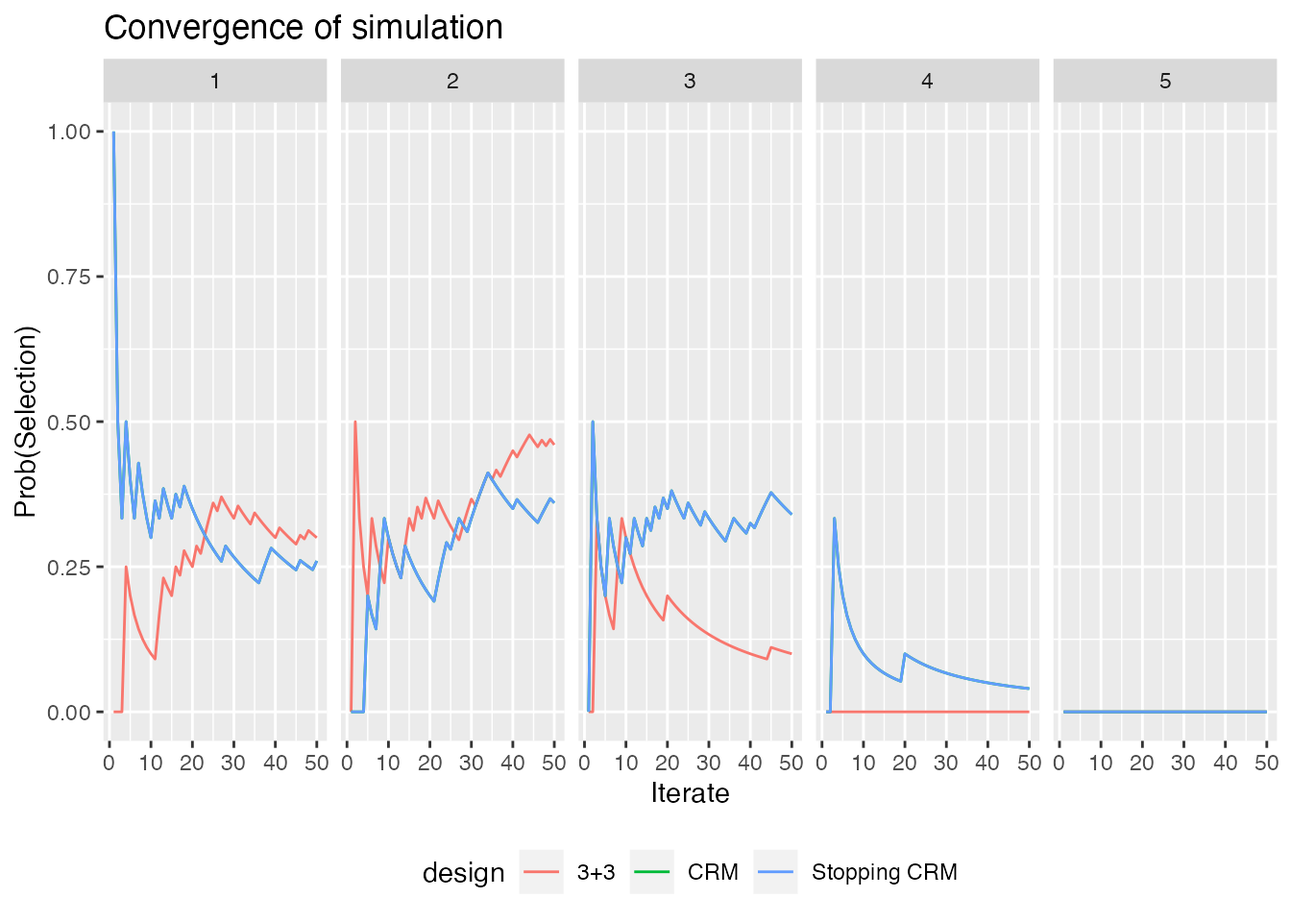
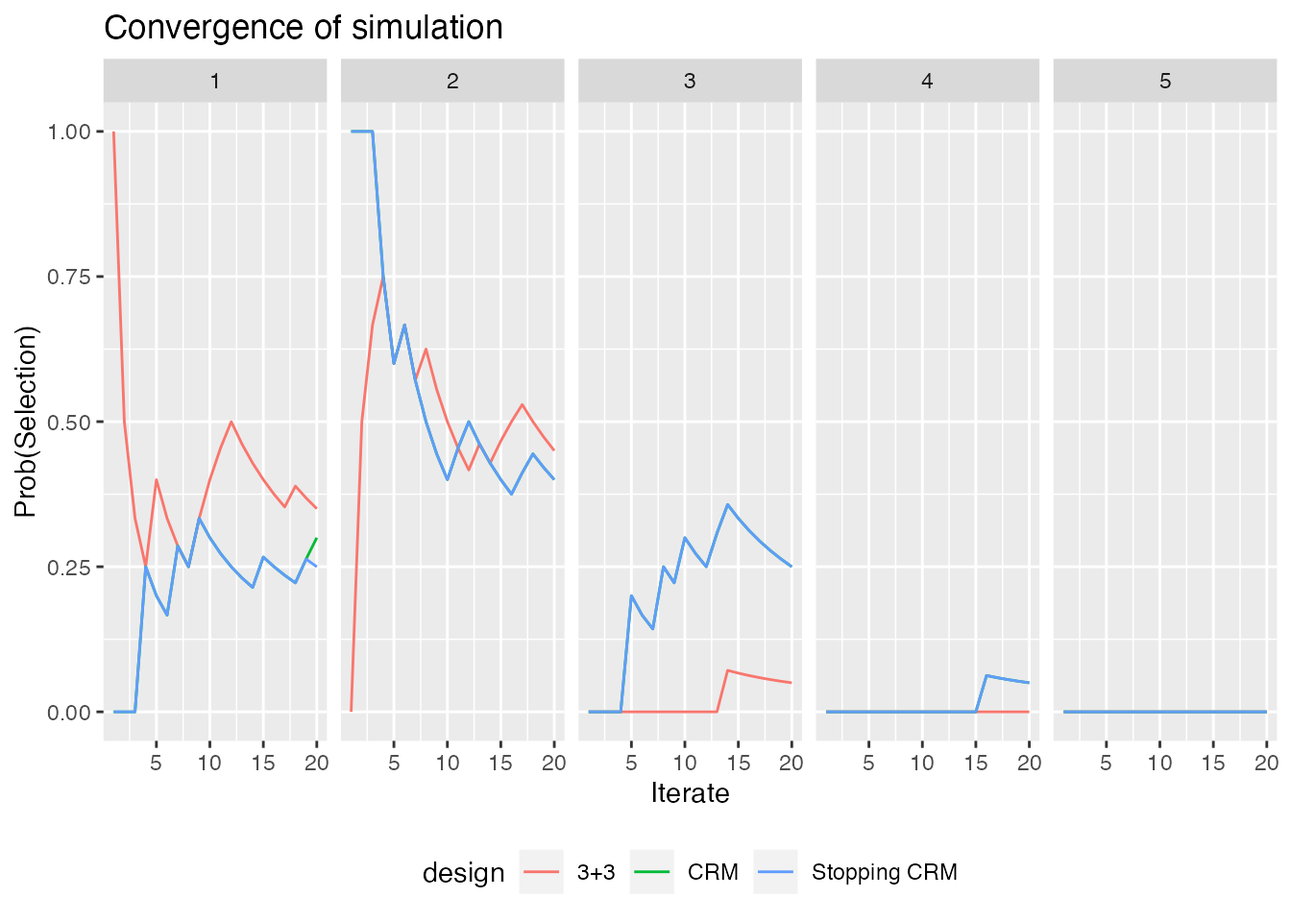
Changes to pass CRAN checks, culminating in v0.1.8

diff --git a/docs/articles/A700-Simulation.html b/docs/articles/A700-Simulation.html
@@ -40,7 +40,7 @@
       </button>
       <span class="navbar-brand">
         <a class="navbar-link" href="../index.html">escalation</a>
-        <span class="version label label-default" data-toggle="tooltip" data-placement="bottom" title="">0.1.6.9001</span>
+        <span class="version label label-default" data-toggle="tooltip" data-placement="bottom" title="">0.1.8</span>
       </span>
     </div>
 
@@ -176,7 +176,7 @@ the design tends to target doses with associated toxicity rates of
 <p>For the purposes of illustration, let us simulate a modest number of
 trials:</p>
 <div class="sourceCode" id="cb3"><pre class="downlit sourceCode r">
-<code class="sourceCode R"><span><span class="va">num_sims</span> <span class="op">&lt;-</span> <span class="fl">50</span></span></code></pre></div>
+<code class="sourceCode R"><span><span class="va">num_sims</span> <span class="op">&lt;-</span> <span class="fl">20</span></span></code></pre></div>
 <p>In reality, if we want to have confidence in the simulated results,
 we would tend to run thousands of iterations <span class="citation">(Wheeler et al. 2019)</span>. We run a small number
 here so that this vignette compiles quickly.</p>
@@ -194,7 +194,7 @@ of R.</p>
 useful summary information:</p>
 <div class="sourceCode" id="cb5"><pre class="downlit sourceCode r">
 <code class="sourceCode R"><span><span class="va">sims</span></span>
-<span><span class="co">#&gt; Number of iterations: 50 </span></span>
+<span><span class="co">#&gt; Number of iterations: 20 </span></span>
 <span><span class="co">#&gt; </span></span>
 <span><span class="co">#&gt; Number of doses: 5 </span></span>
 <span><span class="co">#&gt; </span></span>
@@ -204,30 +204,30 @@ useful summary information:</p>
 <span><span class="co">#&gt; </span></span>
 <span><span class="co">#&gt; Probability of recommendation:</span></span>
 <span><span class="co">#&gt; NoDose      1      2      3      4      5 </span></span>
-<span><span class="co">#&gt;   0.08   0.38   0.34   0.16   0.04   0.00 </span></span>
+<span><span class="co">#&gt;   0.10   0.45   0.30   0.15   0.00   0.00 </span></span>
 <span><span class="co">#&gt; </span></span>
 <span><span class="co">#&gt; Probability of administration:</span></span>
 <span><span class="co">#&gt;      1      2      3      4      5 </span></span>
-<span><span class="co">#&gt; 0.3351 0.3730 0.2054 0.0703 0.0162 </span></span>
+<span><span class="co">#&gt; 0.3731 0.3731 0.1791 0.0746 0.0000 </span></span>
 <span><span class="co">#&gt; </span></span>
 <span><span class="co">#&gt; Sample size:</span></span>
 <span><span class="co">#&gt;    Min. 1st Qu.  Median    Mean 3rd Qu.    Max. </span></span>
-<span><span class="co">#&gt;     6.0     9.0     9.0    11.1    12.0    21.0 </span></span>
+<span><span class="co">#&gt;    6.00    8.25    9.00   10.05   12.00   18.00 </span></span>
 <span><span class="co">#&gt; </span></span>
 <span><span class="co">#&gt; Total toxicities:</span></span>
 <span><span class="co">#&gt;    Min. 1st Qu.  Median    Mean 3rd Qu.    Max. </span></span>
-<span><span class="co">#&gt;    2.00    2.00    2.00    2.72    3.00    5.00 </span></span>
+<span><span class="co">#&gt;    2.00    2.00    2.00    2.40    2.25    5.00 </span></span>
 <span><span class="co">#&gt; </span></span>
 <span><span class="co">#&gt; Trial duration:</span></span>
 <span><span class="co">#&gt;    Min. 1st Qu.  Median    Mean 3rd Qu.    Max. </span></span>
-<span><span class="co">#&gt;    3.70    7.65   10.00   11.52   15.07   21.80</span></span></code></pre></div>
+<span><span class="co">#&gt;   4.200   5.925   9.150  10.335  13.950  21.800</span></span></code></pre></div>
 <p>Each of those pieces of information is available progmatically by R
 functions. For instance, the probability of recommending each dose at
 the final analysis, inferred from these simulated iterations, is:</p>
 <div class="sourceCode" id="cb6"><pre class="downlit sourceCode r">
 <code class="sourceCode R"><span><span class="fu"><a href="../reference/prob_recommend.html">prob_recommend</a></span><span class="op">(</span><span class="va">sims</span><span class="op">)</span></span>
 <span><span class="co">#&gt; NoDose      1      2      3      4      5 </span></span>
-<span><span class="co">#&gt;   0.08   0.38   0.34   0.16   0.04   0.00</span></span></code></pre></div>
+<span><span class="co">#&gt;   0.10   0.45   0.30   0.15   0.00   0.00</span></span></code></pre></div>
 <p>Bear in mind that these probabilities are the result of a random
 process. If we run the simulations again with a different seed, we will
 get different results. Recall also that they are informed by a small
@@ -242,13 +242,13 @@ probably too toxic, or recommend no dose at all.</p>
 <div class="sourceCode" id="cb7"><pre class="downlit sourceCode r">
 <code class="sourceCode R"><span><span class="fu"><a href="https://rdrr.io/r/base/summary.html" class="external-link">summary</a></span><span class="op">(</span><span class="fu"><a href="../reference/num_patients.html">num_patients</a></span><span class="op">(</span><span class="va">sims</span><span class="op">)</span><span class="op">)</span></span>
 <span><span class="co">#&gt;    Min. 1st Qu.  Median    Mean 3rd Qu.    Max. </span></span>
-<span><span class="co">#&gt;     6.0     9.0     9.0    11.1    12.0    21.0</span></span></code></pre></div>
+<span><span class="co">#&gt;    6.00    8.25    9.00   10.05   12.00   18.00</span></span></code></pre></div>
 <p>We see that the simulated trials use between 3 and 24 patients, with
 an expected number of 9-12.</p>
 <div class="sourceCode" id="cb8"><pre class="downlit sourceCode r">
 <code class="sourceCode R"><span><span class="fu"><a href="https://rdrr.io/r/base/summary.html" class="external-link">summary</a></span><span class="op">(</span><span class="fu"><a href="../reference/n_at_recommended_dose.html">n_at_recommended_dose</a></span><span class="op">(</span><span class="va">sims</span><span class="op">)</span><span class="op">)</span></span>
 <span><span class="co">#&gt;    Min. 1st Qu.  Median    Mean 3rd Qu.    Max.    NA's </span></span>
-<span><span class="co">#&gt;   3.000   3.000   3.000   3.913   6.000   6.000       4</span></span></code></pre></div>
+<span><span class="co">#&gt;   3.000   3.000   3.000   3.667   3.000   6.000       2</span></span></code></pre></div>
 <p>Of those, 3-4 at treated at the dose that is eventually
 recommended.</p>
 <p>We can see how many patients are treated at each dose on a
@@ -275,7 +275,7 @@ dose-level:</p>
 <div class="sourceCode" id="cb10"><pre class="downlit sourceCode r">
 <code class="sourceCode R"><span><span class="fu"><a href="../reference/prob_administer.html">prob_administer</a></span><span class="op">(</span><span class="va">sims</span><span class="op">)</span></span>
 <span><span class="co">#&gt;          1          2          3          4          5 </span></span>
-<span><span class="co">#&gt; 0.33513514 0.37297297 0.20540541 0.07027027 0.01621622</span></span></code></pre></div>
+<span><span class="co">#&gt; 0.37313433 0.37313433 0.17910448 0.07462687 0.00000000</span></span></code></pre></div>
 <p>We might be alarmed to learn that roughly 25% of patients are treated
 at doses 3-5, the doses we believe to be excessively toxic.</p>
 <p>We can also see how many toxicities there were at each dose in the
@@ -300,7 +300,7 @@ replicates:</p>
 <div class="sourceCode" id="cb12"><pre class="downlit sourceCode r">
 <code class="sourceCode R"><span><span class="fu"><a href="https://rdrr.io/r/base/summary.html" class="external-link">summary</a></span><span class="op">(</span><span class="fu"><a href="../reference/num_tox.html">num_tox</a></span><span class="op">(</span><span class="va">sims</span><span class="op">)</span><span class="op">)</span></span>
 <span><span class="co">#&gt;    Min. 1st Qu.  Median    Mean 3rd Qu.    Max. </span></span>
-<span><span class="co">#&gt;    2.00    2.00    2.00    2.72    3.00    5.00</span></span></code></pre></div>
+<span><span class="co">#&gt;    2.00    2.00    2.00    2.40    2.25    5.00</span></span></code></pre></div>
 <p>We expect to see about 2-3 toxicities using this design in this
 scenario with no iteration producing more than 6 toxicities.</p>
 <p>For convenience, simulations can be cast to a
@@ -401,7 +401,7 @@ How does performance of this simple design compare to the 3+3 above?</p>
 <span>  <span class="fu"><a href="../reference/simulate_trials.html">simulate_trials</a></span><span class="op">(</span>num_sims <span class="op">=</span> <span class="va">num_sims</span>, true_prob_tox <span class="op">=</span> <span class="va">true_prob_tox</span><span class="op">)</span></span>
 <span></span>
 <span><span class="va">sims</span></span>
-<span><span class="co">#&gt; Number of iterations: 50 </span></span>
+<span><span class="co">#&gt; Number of iterations: 20 </span></span>
 <span><span class="co">#&gt; </span></span>
 <span><span class="co">#&gt; Number of doses: 5 </span></span>
 <span><span class="co">#&gt; </span></span>
@@ -411,11 +411,11 @@ How does performance of this simple design compare to the 3+3 above?</p>
 <span><span class="co">#&gt; </span></span>
 <span><span class="co">#&gt; Probability of recommendation:</span></span>
 <span><span class="co">#&gt; NoDose      1      2      3      4      5 </span></span>
-<span><span class="co">#&gt;   0.00   0.16   0.46   0.32   0.06   0.00 </span></span>
+<span><span class="co">#&gt;   0.00   0.15   0.45   0.30   0.10   0.00 </span></span>
 <span><span class="co">#&gt; </span></span>
 <span><span class="co">#&gt; Probability of administration:</span></span>
-<span><span class="co">#&gt;     1     2     3     4     5 </span></span>
-<span><span class="co">#&gt; 0.445 0.250 0.130 0.170 0.005 </span></span>
+<span><span class="co">#&gt;      1      2      3      4      5 </span></span>
+<span><span class="co">#&gt; 0.4000 0.2375 0.1375 0.1875 0.0375 </span></span>
 <span><span class="co">#&gt; </span></span>
 <span><span class="co">#&gt; Sample size:</span></span>
 <span><span class="co">#&gt;    Min. 1st Qu.  Median    Mean 3rd Qu.    Max. </span></span>
@@ -423,11 +423,11 @@ How does performance of this simple design compare to the 3+3 above?</p>
 <span><span class="co">#&gt; </span></span>
 <span><span class="co">#&gt; Total toxicities:</span></span>
 <span><span class="co">#&gt;    Min. 1st Qu.  Median    Mean 3rd Qu.    Max. </span></span>
-<span><span class="co">#&gt;    1.00    2.00    3.00    3.08    4.00    5.00 </span></span>
+<span><span class="co">#&gt;     2.0     3.0     3.0     3.4     4.0     5.0 </span></span>
 <span><span class="co">#&gt; </span></span>
 <span><span class="co">#&gt; Trial duration:</span></span>
 <span><span class="co">#&gt;    Min. 1st Qu.  Median    Mean 3rd Qu.    Max. </span></span>
-<span><span class="co">#&gt;    6.10    9.95   11.80   12.06   13.80   21.30</span></span></code></pre></div>
+<span><span class="co">#&gt;    5.50   10.70   11.80   12.21   15.12   17.30</span></span></code></pre></div>
 <p>The first thing we note is that the CRM design is much less likely to
 select dose 1 and more likely to select dose 2. If we believe that
 efficacy is associated with toxicity (and we should if we are using the
@@ -447,7 +447,7 @@ toxicity:</p>
 <span>  <span class="fu"><a href="../reference/simulate_trials.html">simulate_trials</a></span><span class="op">(</span>num_sims <span class="op">=</span> <span class="va">num_sims</span>, true_prob_tox <span class="op">=</span> <span class="va">true_prob_tox</span><span class="op">)</span></span>
 <span></span>
 <span><span class="va">sims</span></span>
-<span><span class="co">#&gt; Number of iterations: 50 </span></span>
+<span><span class="co">#&gt; Number of iterations: 20 </span></span>
 <span><span class="co">#&gt; </span></span>
 <span><span class="co">#&gt; Number of doses: 5 </span></span>
 <span><span class="co">#&gt; </span></span>
@@ -457,11 +457,11 @@ toxicity:</p>
 <span><span class="co">#&gt; </span></span>
 <span><span class="co">#&gt; Probability of recommendation:</span></span>
 <span><span class="co">#&gt; NoDose      1      2      3      4      5 </span></span>
-<span><span class="co">#&gt;   0.00   0.32   0.42   0.20   0.04   0.02 </span></span>
+<span><span class="co">#&gt;   0.00   0.15   0.50   0.10   0.20   0.05 </span></span>
 <span><span class="co">#&gt; </span></span>
 <span><span class="co">#&gt; Probability of administration:</span></span>
 <span><span class="co">#&gt;     1     2     3     4     5 </span></span>
-<span><span class="co">#&gt; 0.475 0.220 0.110 0.175 0.020 </span></span>
+<span><span class="co">#&gt; 0.438 0.163 0.138 0.212 0.050 </span></span>
 <span><span class="co">#&gt; </span></span>
 <span><span class="co">#&gt; Sample size:</span></span>
 <span><span class="co">#&gt;    Min. 1st Qu.  Median    Mean 3rd Qu.    Max. </span></span>
@@ -469,11 +469,11 @@ toxicity:</p>
 <span><span class="co">#&gt; </span></span>
 <span><span class="co">#&gt; Total toxicities:</span></span>
 <span><span class="co">#&gt;    Min. 1st Qu.  Median    Mean 3rd Qu.    Max. </span></span>
-<span><span class="co">#&gt;    1.00    3.00    3.00    3.42    4.00    5.00 </span></span>
+<span><span class="co">#&gt;    2.00    2.00    3.00    3.15    4.00    5.00 </span></span>
 <span><span class="co">#&gt; </span></span>
 <span><span class="co">#&gt; Trial duration:</span></span>
 <span><span class="co">#&gt;    Min. 1st Qu.  Median    Mean 3rd Qu.    Max. </span></span>
-<span><span class="co">#&gt;    6.40    9.70   12.40   12.33   14.38   25.00</span></span></code></pre></div>
+<span><span class="co">#&gt;    7.60   10.15   12.65   13.12   16.70   19.80</span></span></code></pre></div>
 <p>We now see some trial iterations that stop and recommend <em>no
 dose</em> for further study. We cannot see from this scenario whether
 this design stops frequently enough because an appropriate decision in
@@ -484,7 +484,7 @@ eventually recommended</p>
 <div class="sourceCode" id="cb19"><pre class="downlit sourceCode r">
 <code class="sourceCode R"><span><span class="fu"><a href="https://rdrr.io/r/base/summary.html" class="external-link">summary</a></span><span class="op">(</span><span class="fu"><a href="../reference/n_at_recommended_dose.html">n_at_recommended_dose</a></span><span class="op">(</span><span class="va">sims</span><span class="op">)</span><span class="op">)</span></span>
 <span><span class="co">#&gt;    Min. 1st Qu.  Median    Mean 3rd Qu.    Max. </span></span>
-<span><span class="co">#&gt;     0.0     3.0     3.0     4.8     6.0    12.0</span></span></code></pre></div>
+<span><span class="co">#&gt;    0.00    3.00    3.00    4.05    6.00   12.00</span></span></code></pre></div>
 <p>Similar to the 3+3 design, this CRM design treats 3-4 at the
 recommended dose. We might want to ensure that there are at least 6
 patients at the recommended dose. How would that affect the operating
@@ -500,11 +500,11 @@ dose:</p>
 <div class="sourceCode" id="cb21"><pre class="downlit sourceCode r">
 <code class="sourceCode R"><span><span class="fu"><a href="https://rdrr.io/r/base/summary.html" class="external-link">summary</a></span><span class="op">(</span><span class="fu"><a href="../reference/n_at_recommended_dose.html">n_at_recommended_dose</a></span><span class="op">(</span><span class="va">sims</span><span class="op">)</span><span class="op">)</span></span>
 <span><span class="co">#&gt;    Min. 1st Qu.  Median    Mean 3rd Qu.    Max. </span></span>
-<span><span class="co">#&gt;    6.00    6.00    6.00    6.54    6.00   12.00</span></span></code></pre></div>
+<span><span class="co">#&gt;     6.0     6.0     6.0     6.9     6.0    12.0</span></span></code></pre></div>
 <p>So how does this affect the expected overall sample size?</p>
 <div class="sourceCode" id="cb22"><pre class="downlit sourceCode r">
 <code class="sourceCode R"><span><span class="va">sims</span></span>
-<span><span class="co">#&gt; Number of iterations: 50 </span></span>
+<span><span class="co">#&gt; Number of iterations: 20 </span></span>
 <span><span class="co">#&gt; </span></span>
 <span><span class="co">#&gt; Number of doses: 5 </span></span>
 <span><span class="co">#&gt; </span></span>
@@ -514,23 +514,23 @@ dose:</p>
 <span><span class="co">#&gt; </span></span>
 <span><span class="co">#&gt; Probability of recommendation:</span></span>
 <span><span class="co">#&gt; NoDose      1      2      3      4      5 </span></span>
-<span><span class="co">#&gt;   0.00   0.20   0.40   0.36   0.02   0.02 </span></span>
+<span><span class="co">#&gt;   0.00   0.20   0.45   0.25   0.10   0.00 </span></span>
 <span><span class="co">#&gt; </span></span>
 <span><span class="co">#&gt; Probability of administration:</span></span>
 <span><span class="co">#&gt;      1      2      3      4      5 </span></span>
-<span><span class="co">#&gt; 0.3714 0.2776 0.1918 0.1469 0.0122 </span></span>
+<span><span class="co">#&gt; 0.4149 0.2553 0.1596 0.1596 0.0106 </span></span>
 <span><span class="co">#&gt; </span></span>
 <span><span class="co">#&gt; Sample size:</span></span>
 <span><span class="co">#&gt;    Min. 1st Qu.  Median    Mean 3rd Qu.    Max. </span></span>
-<span><span class="co">#&gt;    12.0    12.0    15.0    14.7    18.0    21.0 </span></span>
+<span><span class="co">#&gt;    12.0    12.0    15.0    14.1    15.0    18.0 </span></span>
 <span><span class="co">#&gt; </span></span>
 <span><span class="co">#&gt; Total toxicities:</span></span>
 <span><span class="co">#&gt;    Min. 1st Qu.  Median    Mean 3rd Qu.    Max. </span></span>
-<span><span class="co">#&gt;    1.00    3.00    4.00    3.82    5.00    8.00 </span></span>
+<span><span class="co">#&gt;     2.0     3.0     4.0     3.6     4.0     6.0 </span></span>
 <span><span class="co">#&gt; </span></span>
 <span><span class="co">#&gt; Trial duration:</span></span>
 <span><span class="co">#&gt;    Min. 1st Qu.  Median    Mean 3rd Qu.    Max. </span></span>
-<span><span class="co">#&gt;    8.00   11.62   14.55   15.31   18.55   26.60</span></span></code></pre></div>
+<span><span class="co">#&gt;    8.20   11.07   12.50   13.68   16.30   21.70</span></span></code></pre></div>
 <p>Pleasingly, the expected sample size only increases by about 3
 patients. Obviously, the maximum increases by 6 patients.</p>
 </div>
@@ -579,11 +579,11 @@ and the previous, like the <code>cohorts_of_n</code> function does:</p>
 <div class="sourceCode" id="cb24"><pre class="downlit sourceCode r">
 <code class="sourceCode R"><span><span class="fu"><a href="../reference/cohorts_of_n.html">cohorts_of_n</a></span><span class="op">(</span>n <span class="op">=</span> <span class="fl">5</span><span class="op">)</span></span>
 <span><span class="co">#&gt;   time_delta</span></span>
-<span><span class="co">#&gt; 1        1.3</span></span>
-<span><span class="co">#&gt; 2        0.2</span></span>
-<span><span class="co">#&gt; 3        0.5</span></span>
-<span><span class="co">#&gt; 4        1.5</span></span>
-<span><span class="co">#&gt; 5        1.0</span></span></code></pre></div>
+<span><span class="co">#&gt; 1        2.2</span></span>
+<span><span class="co">#&gt; 2        0.7</span></span>
+<span><span class="co">#&gt; 3        0.1</span></span>
+<span><span class="co">#&gt; 4        0.1</span></span>
+<span><span class="co">#&gt; 5        0.5</span></span></code></pre></div>
 </div>
 <div class="section level4">
 <h4 id="sampling-the-conclusion-of-partly-observed-trials">Sampling the conclusion of partly-observed trials<a class="anchor" aria-label="anchor" href="#sampling-the-conclusion-of-partly-observed-trials"></a>
@@ -608,7 +608,7 @@ likely that a low dose will be recommended, as we might expect:</p>
 <div class="sourceCode" id="cb26"><pre class="downlit sourceCode r">
 <code class="sourceCode R"><span><span class="fu"><a href="../reference/prob_recommend.html">prob_recommend</a></span><span class="op">(</span><span class="va">sims</span><span class="op">)</span></span>
 <span><span class="co">#&gt; NoDose      1      2      3      4      5 </span></span>
-<span><span class="co">#&gt;   0.00   0.28   0.66   0.06   0.00   0.00</span></span></code></pre></div>
+<span><span class="co">#&gt;   0.00   0.40   0.55   0.05   0.00   0.00</span></span></code></pre></div>
 <p>The <code>previous_outcomes</code> can be described by the outcome
 string method demonstrated above. They can also be provided via a
 data-frame, with the following columns:</p>
@@ -630,7 +630,7 @@ results:</p>
 <div class="sourceCode" id="cb28"><pre class="downlit sourceCode r">
 <code class="sourceCode R"><span><span class="fu"><a href="../reference/prob_recommend.html">prob_recommend</a></span><span class="op">(</span><span class="va">sims</span><span class="op">)</span></span>
 <span><span class="co">#&gt; NoDose      1      2      3      4      5 </span></span>
-<span><span class="co">#&gt;   0.00   0.28   0.66   0.06   0.00   0.00</span></span></code></pre></div>
+<span><span class="co">#&gt;   0.00   0.40   0.55   0.05   0.00   0.00</span></span></code></pre></div>
 </div>
 <div class="section level4">
 <h4 id="next-dose">Next dose<a class="anchor" aria-label="anchor" href="#next-dose"></a>
@@ -665,8 +665,7 @@ this function to retain all model fits by specifying
 <p>We can verify that there are now many analyses per trial:</p>
 <div class="sourceCode" id="cb31"><pre class="downlit sourceCode r">
 <code class="sourceCode R"><span><span class="fu"><a href="https://rdrr.io/r/base/lapply.html" class="external-link">sapply</a></span><span class="op">(</span><span class="va">sims</span><span class="op">$</span><span class="va">fits</span>, <span class="va">length</span><span class="op">)</span></span>
-<span><span class="co">#&gt;  [1] 4 3 4 7 4 3 3 5 5 4 5 7 3 5 3 7 6 4 3 3 6 5 4 6 4 4 4 4 5 4 2 6 3 4 5 5 7 6</span></span>
-<span><span class="co">#&gt; [39] 5 4 5 3 4 4 4 5 4 5 7 5</span></span></code></pre></div>
+<span><span class="co">#&gt;  [1] 6 6 4 6 4 5 4 5 5 6 5 5 4 8 5 6 3 4 3 4</span></span></code></pre></div>
 <p>The multiple fits within a single simulated trial are distinguishable
 in <code>tibble</code> view via the <code>.depth</code> column:</p>
 <div class="sourceCode" id="cb32"><pre class="downlit sourceCode r">
@@ -674,18 +673,18 @@ in <code>tibble</code> view via the <code>.depth</code> column:</p>
 <span><span class="co">#&gt; <span style="color: #949494;"># A tibble: 12 × 12</span></span></span>
 <span><span class="co">#&gt;    .iteration .depth  time dose     tox     n empiric_tox_rate mean_prob_tox</span></span>
 <span><span class="co">#&gt;         <span style="color: #949494; font-style: italic;">&lt;int&gt;</span>  <span style="color: #949494; font-style: italic;">&lt;dbl&gt;</span> <span style="color: #949494; font-style: italic;">&lt;dbl&gt;</span> <span style="color: #949494; font-style: italic;">&lt;ord&gt;</span>  <span style="color: #949494; font-style: italic;">&lt;dbl&gt;</span> <span style="color: #949494; font-style: italic;">&lt;dbl&gt;</span>            <span style="color: #949494; font-style: italic;">&lt;dbl&gt;</span>         <span style="color: #949494; font-style: italic;">&lt;dbl&gt;</span></span></span>
-<span><span class="co">#&gt; <span style="color: #BCBCBC;"> 1</span>          1      1   0   NoDose     0     0            0                 0</span></span>
-<span><span class="co">#&gt; <span style="color: #BCBCBC;"> 2</span>          1      1   0   1          0     0          <span style="color: #BB0000;">NaN</span>                <span style="color: #BB0000;">NA</span></span></span>
-<span><span class="co">#&gt; <span style="color: #BCBCBC;"> 3</span>          1      1   0   2          0     0          <span style="color: #BB0000;">NaN</span>                <span style="color: #BB0000;">NA</span></span></span>
-<span><span class="co">#&gt; <span style="color: #BCBCBC;"> 4</span>          1      1   0   3          0     0          <span style="color: #BB0000;">NaN</span>                <span style="color: #BB0000;">NA</span></span></span>
-<span><span class="co">#&gt; <span style="color: #BCBCBC;"> 5</span>          1      1   0   4          0     0          <span style="color: #BB0000;">NaN</span>                <span style="color: #BB0000;">NA</span></span></span>
-<span><span class="co">#&gt; <span style="color: #BCBCBC;"> 6</span>          1      1   0   5          0     0          <span style="color: #BB0000;">NaN</span>                <span style="color: #BB0000;">NA</span></span></span>
-<span><span class="co">#&gt; <span style="color: #BCBCBC;"> 7</span>          1      2   1.3 NoDose     0     0            0                 0</span></span>
-<span><span class="co">#&gt; <span style="color: #BCBCBC;"> 8</span>          1      2   1.3 1          1     3            0.333            <span style="color: #BB0000;">NA</span></span></span>
-<span><span class="co">#&gt; <span style="color: #BCBCBC;"> 9</span>          1      2   1.3 2          0     0          <span style="color: #BB0000;">NaN</span>                <span style="color: #BB0000;">NA</span></span></span>
-<span><span class="co">#&gt; <span style="color: #BCBCBC;">10</span>          1      2   1.3 3          0     0          <span style="color: #BB0000;">NaN</span>                <span style="color: #BB0000;">NA</span></span></span>
-<span><span class="co">#&gt; <span style="color: #BCBCBC;">11</span>          1      2   1.3 4          0     0          <span style="color: #BB0000;">NaN</span>                <span style="color: #BB0000;">NA</span></span></span>
-<span><span class="co">#&gt; <span style="color: #BCBCBC;">12</span>          1      2   1.3 5          0     0          <span style="color: #BB0000;">NaN</span>                <span style="color: #BB0000;">NA</span></span></span>
+<span><span class="co">#&gt; <span style="color: #BCBCBC;"> 1</span>          1      1   0   NoDose     0     0                0             0</span></span>
+<span><span class="co">#&gt; <span style="color: #BCBCBC;"> 2</span>          1      1   0   1          0     0              <span style="color: #BB0000;">NaN</span>            <span style="color: #BB0000;">NA</span></span></span>
+<span><span class="co">#&gt; <span style="color: #BCBCBC;"> 3</span>          1      1   0   2          0     0              <span style="color: #BB0000;">NaN</span>            <span style="color: #BB0000;">NA</span></span></span>
+<span><span class="co">#&gt; <span style="color: #BCBCBC;"> 4</span>          1      1   0   3          0     0              <span style="color: #BB0000;">NaN</span>            <span style="color: #BB0000;">NA</span></span></span>
+<span><span class="co">#&gt; <span style="color: #BCBCBC;"> 5</span>          1      1   0   4          0     0              <span style="color: #BB0000;">NaN</span>            <span style="color: #BB0000;">NA</span></span></span>
+<span><span class="co">#&gt; <span style="color: #BCBCBC;"> 6</span>          1      1   0   5          0     0              <span style="color: #BB0000;">NaN</span>            <span style="color: #BB0000;">NA</span></span></span>
+<span><span class="co">#&gt; <span style="color: #BCBCBC;"> 7</span>          1      2   1.7 NoDose     0     0                0             0</span></span>
+<span><span class="co">#&gt; <span style="color: #BCBCBC;"> 8</span>          1      2   1.7 1          0     3                0            <span style="color: #BB0000;">NA</span></span></span>
+<span><span class="co">#&gt; <span style="color: #BCBCBC;"> 9</span>          1      2   1.7 2          0     0              <span style="color: #BB0000;">NaN</span>            <span style="color: #BB0000;">NA</span></span></span>
+<span><span class="co">#&gt; <span style="color: #BCBCBC;">10</span>          1      2   1.7 3          0     0              <span style="color: #BB0000;">NaN</span>            <span style="color: #BB0000;">NA</span></span></span>
+<span><span class="co">#&gt; <span style="color: #BCBCBC;">11</span>          1      2   1.7 4          0     0              <span style="color: #BB0000;">NaN</span>            <span style="color: #BB0000;">NA</span></span></span>
+<span><span class="co">#&gt; <span style="color: #BCBCBC;">12</span>          1      2   1.7 5          0     0              <span style="color: #BB0000;">NaN</span>            <span style="color: #BB0000;">NA</span></span></span>
 <span><span class="co">#&gt; <span style="color: #949494;"># ℹ 4 more variables: median_prob_tox &lt;dbl&gt;, admissible &lt;lgl&gt;,</span></span></span>
 <span><span class="co">#&gt; <span style="color: #949494;">#   recommended &lt;lgl&gt;, true_prob_tox &lt;dbl&gt;</span></span></span></code></pre></div>
 <p>In contrast to the previous usage of <code>as_tibble(sims)</code>, we

diff --git a/docs/articles/A710-SimulationComparison.html b/docs/articles/A710-SimulationComparison.html
@@ -40,7 +40,7 @@
       </button>
       <span class="navbar-brand">
         <a class="navbar-link" href="../index.html">escalation</a>
-        <span class="version label label-default" data-toggle="tooltip" data-placement="bottom" title="">0.1.6.9001</span>
+        <span class="version label label-default" data-toggle="tooltip" data-placement="bottom" title="">0.1.8</span>
       </span>
     </div>
 
@@ -157,8 +157,9 @@ with convenient names:</p>
 <p>Here we will compare three designs: 3+3; CRM without a toxicity
 stopping rule; and an otherwise identical CRM design with a toxicity
 stopping rule. The names we provide will be reused.</p>
+<p>For illustration we use only a small number of replicates:</p>
 <div class="sourceCode" id="cb2"><pre class="downlit sourceCode r">
-<code class="sourceCode R"><span><span class="va">num_sims</span> <span class="op">&lt;-</span> <span class="fl">50</span></span>
+<code class="sourceCode R"><span><span class="va">num_sims</span> <span class="op">&lt;-</span> <span class="fl">20</span></span>
 <span><span class="va">true_prob_tox</span> <span class="op">&lt;-</span> <span class="fu"><a href="https://rdrr.io/r/base/c.html" class="external-link">c</a></span><span class="op">(</span><span class="fl">0.12</span>, <span class="fl">0.27</span>, <span class="fl">0.44</span>, <span class="fl">0.53</span>, <span class="fl">0.57</span><span class="op">)</span></span>
 <span></span>
 <span><span class="va">sims</span> <span class="op">&lt;-</span> <span class="fu"><a href="../reference/simulate_compare.html">simulate_compare</a></span><span class="op">(</span></span>

diff --git a/docs/articles/index.html b/docs/articles/index.html
@@ -17,7 +17,7 @@
       </button>
       <span class="navbar-brand">
         <a class="navbar-link" href="../index.html">escalation</a>
-        <span class="version label label-default" data-toggle="tooltip" data-placement="bottom" title="">0.1.6.9001</span>
+        <span class="version label label-default" data-toggle="tooltip" data-placement="bottom" title="">0.1.8</span>
       </span>
     </div>
 

diff --git a/README.md b/README.md
@@ -6,7 +6,6 @@
 <!-- badges: start -->
 
 [![R-CMD-check](https://github.com/brockk/escalation/actions/workflows/R-CMD-check.yaml/badge.svg)](https://github.com/brockk/escalation/actions/workflows/R-CMD-check.yaml)
-[![codecov](https://codecov.io/gh/brockk/escalation/graph/badge.svg?token=9mDRK6d4Bn)](https://codecov.io/gh/brockk/escalation)
 [![cran
 version](http://www.r-pkg.org/badges/version/escalation)](https://cran.r-project.org/package=escalation)
 ![](https://cranlogs.r-pkg.org/badges/escalation)
